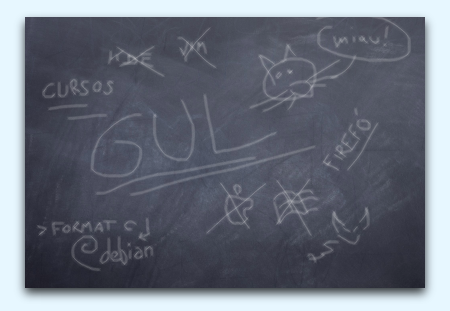
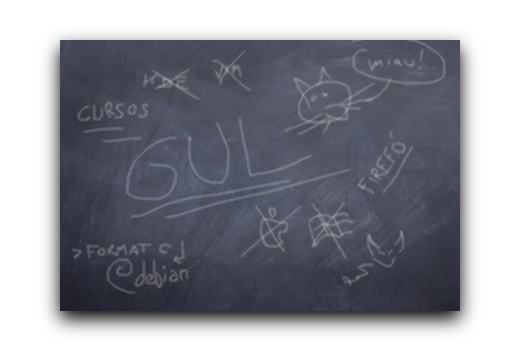
Vuelta a poner el debug a 0 para produccion, añadida la pizarra nueva (con fondo transparente) y cambiado el template a choomla de nuevo

diff --git a/branches/2.0/config/core.php b/branches/2.0/config/core.php
@@ -40,7 +40,7 @@
  * In production mode, flash messages redirect after a time interval.
  * In development mode, you need to click the flash message to continue.
  */
-	Configure::write('debug', 2);
+	Configure::write('debug', 0);
 /**
  * Application wide charset encoding
  */
